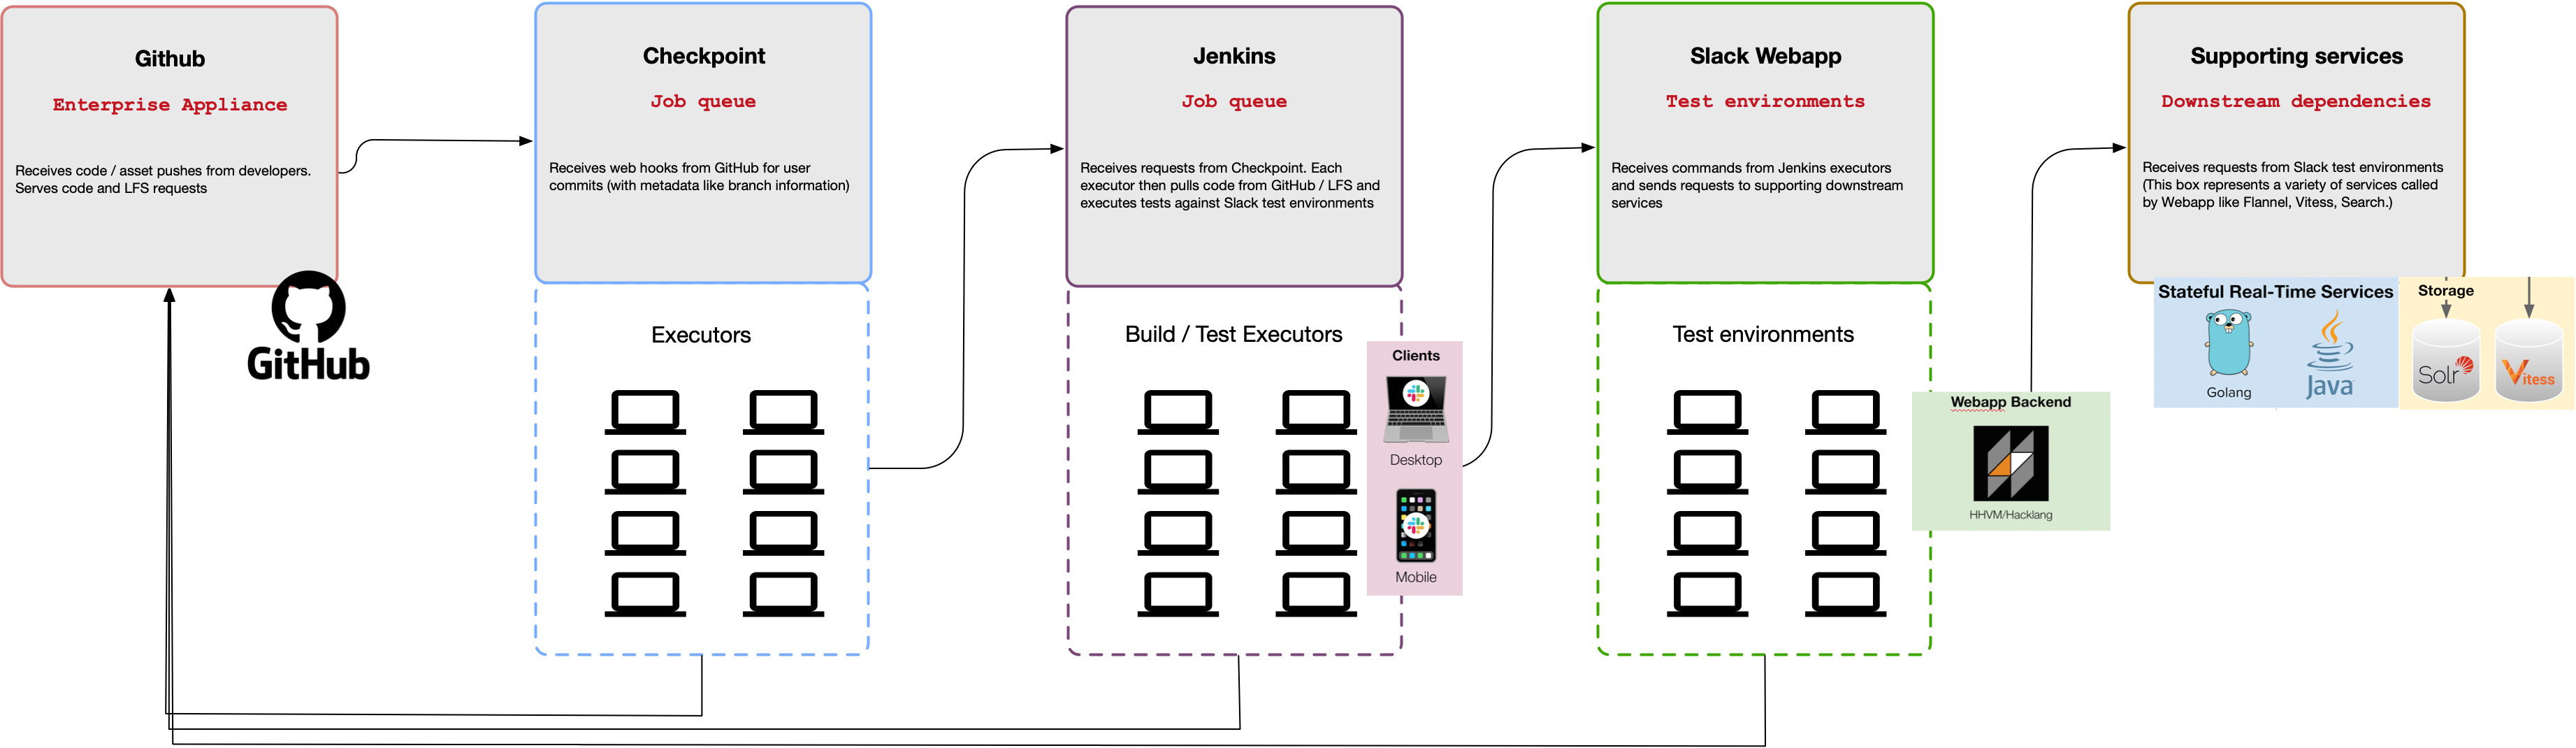
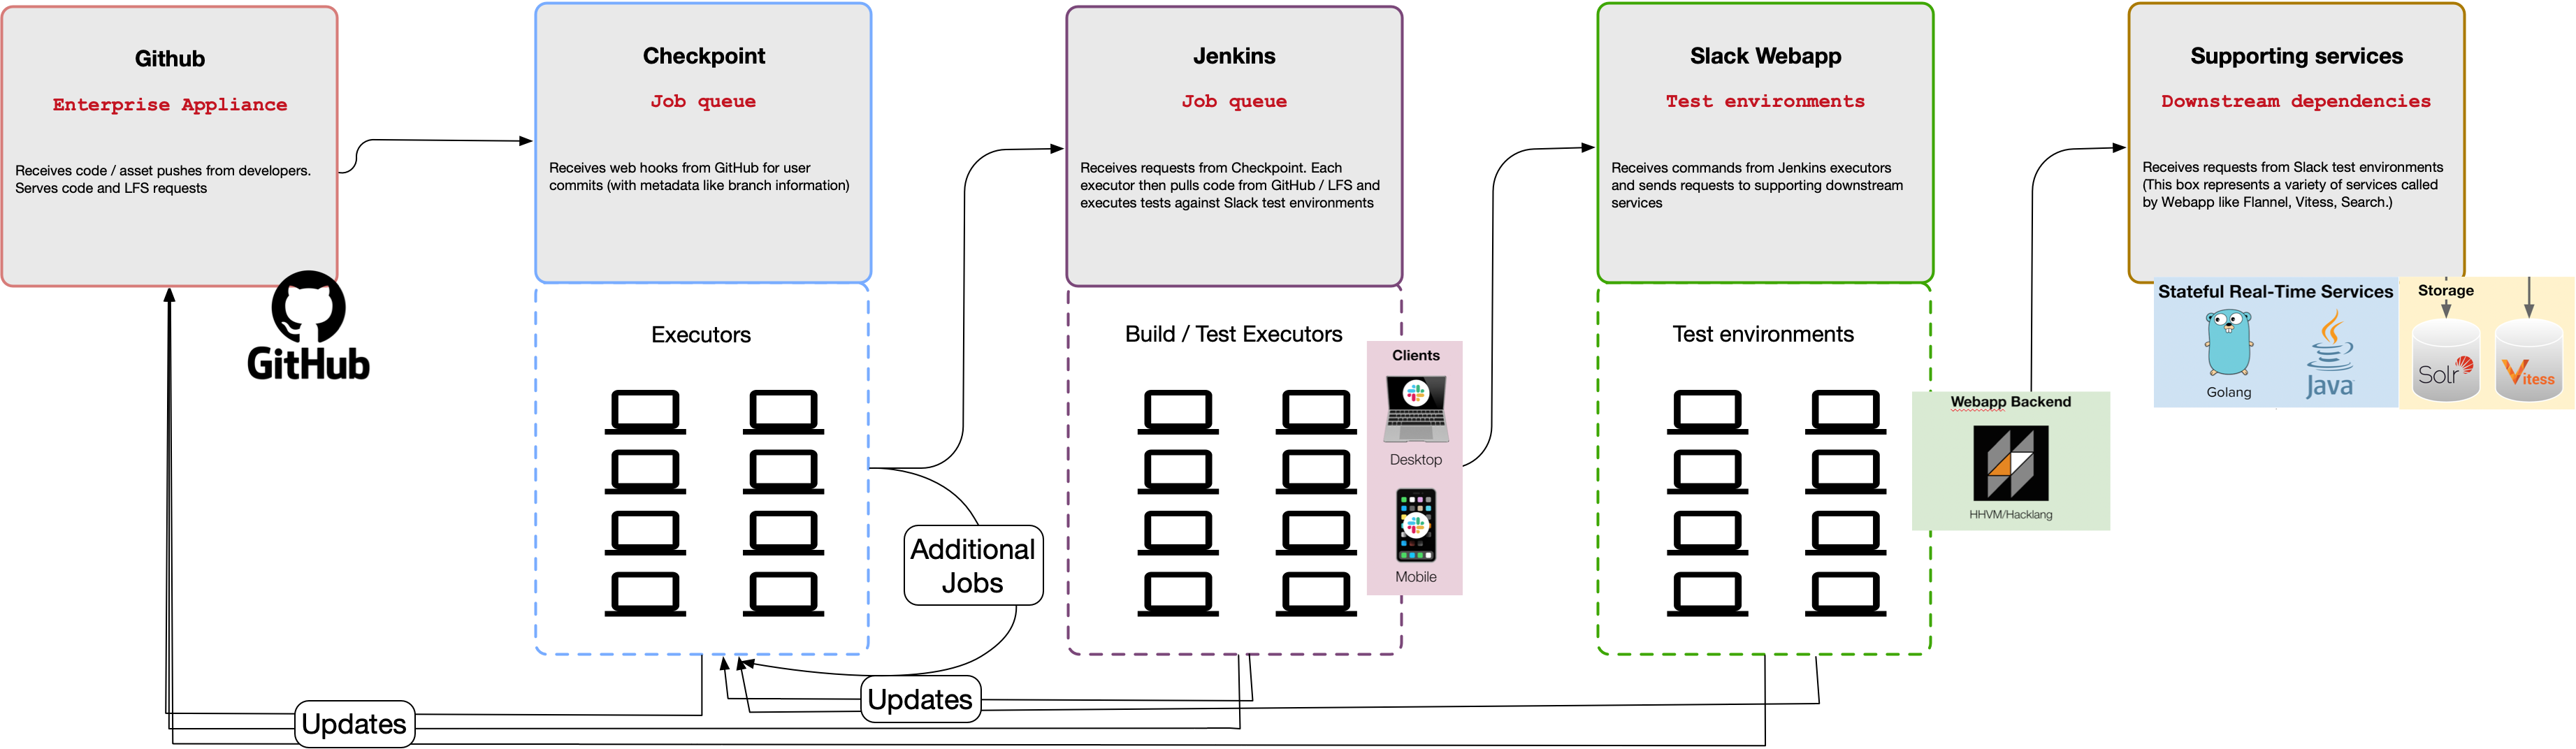
Update diagrams

diff --git a/_posts/2021-12-01-circuit-breakers.md b/_posts/2021-12-01-circuit-breakers.md
@@ -8,12 +8,12 @@ image-width: 192px
 permalink: circuit-breakers
 # TODO Update file name once after updating / debug jekyll dependencies
 ---
-[circuit-breaker-diagram]: /img-posts/circuit-breakers-diagram.png
-[circuit-breaker-meme]: /img-posts/circuit-breakers-meme-friends-do-not-send.png
-
 This article accompanies the talk and shares a preview of references for the Slack engineering blog article on how Slack implemented circuit breakers in internal tooling.
 
 <h2><strong>🎉🍿 Here from Craft Conference? <a class="twitter-share-button" href="https://twitter.com/intent/tweet?text=I%27m%20listening%20to%20@frankc%20talk%20about%20Slack%27s%20internal%20tooling%20circuit%20breakers.%20🔥%20They%20went%20from%20many%20to%20zero%20cascading%20incidents%20in%20CI/CD%21%0AMore%3A%20https%3A//bit.ly/slack-circuit-breakers%0A@craftconf" data-size="large">Tweet</a> and say hi!</strong></h2>
+
+[circuit-breaker-diagram]: /img-posts/circuit-breakers-diagram.png
+[circuit-breaker-meme]: /img-posts/circuit-breakers-meme-friends-do-not-send.png
 
 [![Circuit Breakers Diagram][circuit-breaker-diagram]](/img-posts/circuit-breakers-diagram.png)
 